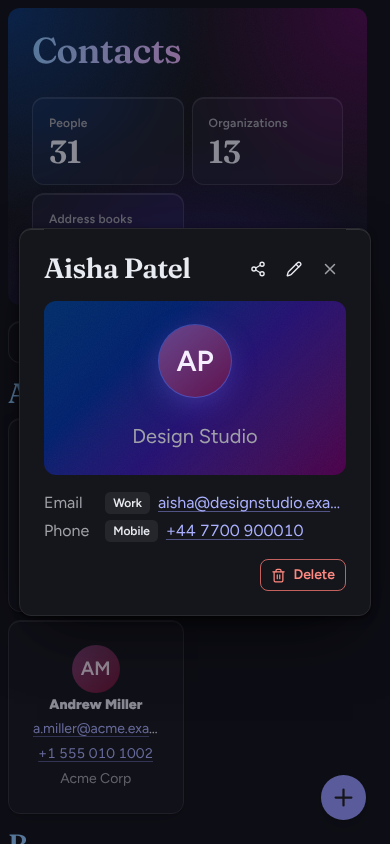
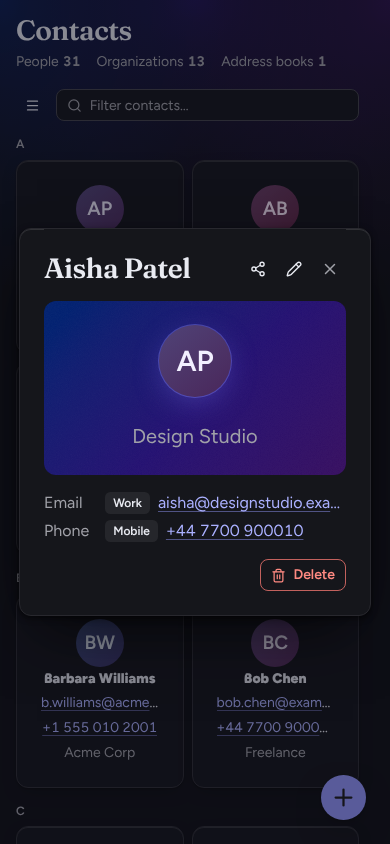
Contacts: a quiet top instead of a dashboard masthead
After a design review in rounds (the boxed mesh masthead with glass stat tiles looked pasted in, mostly in dark
mode): the colour is a wash at the top of the view (temper's new data-tm-surface="wash"), the title in the display
face is the page's one expressive moment, the counts are one small muted line, and the toolbar and letter headings
are plain temper again. The page's padding is md, which aligns the title with the list. caley follows temper's
branch to the commit with the wash and the calmer hues; the demo screenshots and write-up are updated.

Claude-Session: https://claude.ai/code/session_01AjKzdyfRDrLBAvMECsGmEy

diff --git a/frontend/contacts/index.html b/frontend/contacts/index.html
@@ -3,9 +3,9 @@
      draft: the form dialog's ContactDraft (src/lib/contacts.ts); hiddenBooks: addressbookKey()s filtered out.
      Shortcuts: c = new contact, e = edit the open contact (data-shortcut on those buttons).
      `contact-saved` {detail: the contact}: the form saved it, the detail dialog shows it.
-     The page wears temper's expressive.css: a mesh masthead with the counts in glass tiles, a glass toolbar that stays at the
-     top, the letters in the editorial display face, raised cards with seeded avatars (<person-avatar>), and a gradient
-     band in the detail dialog. -->
+     The page wears temper's expressive.css lightly: a wash of the brand colour at the top that scrolls away, the title in
+     the editorial display face, raised cards with seeded avatars (<person-avatar>), and a gradient band in the detail
+     dialog. Everything people work with (toolbar, letters, cards) stays plain temper. -->
 <app-layout data-sn-with="{ here: '/contacts/', title: 'Caley - Contacts' }"
             data-sn-state="{
               q: '',
@@ -30,7 +30,7 @@
     <sn-event name="contacts_refetch" resource="contacts" op="refresh"></sn-event>
     <sn-event name="contacts_refetch" resource="addressbooks" op="refresh"></sn-event>
   </sn-sync>
-  <main data-tm-gutter data-tm-pairing="editorial" data-sn-on-contact-saved="sel = $event.detail; openDialog('contact-detail')">
+  <main data-tm-gutter data-tm-pairing="editorial" data-tm-surface="wash" data-sn-on-contact-saved="sel = $event.detail; openDialog('contact-detail')">
     <div data-tm-density="compact"
          data-sn-let="{
            shown: filterContacts(contacts, addressbooks, hiddenBooks, q),
@@ -40,30 +40,31 @@
              fax: m.contacts_type_fax(), pager: m.contacts_type_pager(), other: m.contacts_type_other(),
            },
          }">
-      <div class="contacts-page" data-tm-layout="stack" data-tm-gap="md" data-tm-pad="sm">
-        <!-- The masthead: the page's name and its counts (the counts once the list has loaded). -->
-        <header data-tm-surface="mesh" data-tm-grain data-tm-layout="row" data-tm-justify="between" data-tm-align="end" data-tm-gap="lg" data-tm-pad="lg">
-          <h1 data-tm-display="xl" data-tm-ink="gradient" data-sn-text="m.nav_contacts()"></h1>
+      <div class="contacts-page" data-tm-layout="stack" data-tm-gap="md" data-tm-pad="md">
+        <!-- The masthead: the page's name, the page's one piece of display type, and its counts in one quiet line (once
+             the list has loaded). The colour behind it is <main>'s wash, which fades out above the list. The page's md padding
+             aligns it with the list and gives it room at the top. -->
+        <header data-tm-layout="stack" data-tm-gap="xs">
+          <h1 data-tm-display="lg" data-sn-text="m.nav_contacts()"></h1>
           <template data-sn-if="contacts.length > 0">
-            <dl data-tm-layout="grid" data-tm-bento data-tm-gap="sm" data-tm-grow style="--tm-min: 8rem; --tm-bento-row: 5.5rem; --tm-grow-basis: 18rem"
-                data-sn-attr="{ 'aria-label': m.contacts_stats() }">
-              <div data-tm-surface="glass" data-tm-layout="stack" data-tm-gap="xs" data-tm-pad="md">
-                <dt data-tm-caption data-sn-text="m.contacts_stat_people()"></dt>
-                <dd data-tm-figure data-sn-text="number(contacts.length)"></dd>
+            <dl data-tm-layout="row" data-tm-gap="md" data-tm-muted data-sn-attr="{ 'aria-label': m.contacts_stats() }">
+              <div data-tm-layout="row" data-tm-gap="xs" data-tm-wrap="none">
+                <dt><small data-sn-text="m.contacts_stat_people()"></small></dt>
+                <dd><small><strong data-sn-text="number(contacts.length)"></strong></small></dd>
               </div>
-              <div data-tm-surface="glass" data-tm-layout="stack" data-tm-gap="xs" data-tm-pad="md">
-                <dt data-tm-caption data-sn-text="m.contacts_stat_orgs()"></dt>
-                <dd data-tm-figure data-sn-text="number(organizationCount(contacts))"></dd>
+              <div data-tm-layout="row" data-tm-gap="xs" data-tm-wrap="none">
+                <dt><small data-sn-text="m.contacts_stat_orgs()"></small></dt>
+                <dd><small><strong data-sn-text="number(organizationCount(contacts))"></strong></small></dd>
               </div>
-              <div data-tm-surface="glass" data-tm-layout="stack" data-tm-gap="xs" data-tm-pad="md">
-                <dt data-tm-caption data-sn-text="m.contacts_stat_books()"></dt>
-                <dd data-tm-figure data-sn-text="number(addressbooks.length)"></dd>
+              <div data-tm-layout="row" data-tm-gap="xs" data-tm-wrap="none">
+                <dt><small data-sn-text="m.contacts_stat_books()"></small></dt>
+                <dd><small><strong data-sn-text="number(addressbooks.length)"></strong></small></dd>
               </div>
             </dl>
           </template>
         </header>
 
-        <div class="contacts-toolbar" data-tm-surface="glass" data-tm-sticky="top" data-tm-layout="row" data-tm-gap="sm" data-tm-pad="xs">
+        <div class="contacts-toolbar" data-tm-layout="row" data-tm-gap="sm">
           <nav-toggle></nav-toggle>
           <div data-tm-field data-tm-grow style="--tm-grow-basis: 12rem">
             <span data-tm-icon="search" aria-hidden="true"></span>
@@ -109,7 +110,7 @@
 
         <template data-sn-for="g in groupByLetter(shown)" data-sn-key="g.letter">
           <section data-tm-layout="stack" data-tm-gap="sm">
-            <h2 data-tm-display="lg" data-tm-ink="gradient" data-sn-text="g.letter"></h2>
+            <h2 data-tm-caption data-sn-text="g.letter"></h2>
             <div data-tm-layout="grid" data-tm-gap="sm" style="--tm-min: 10rem">
               <template data-sn-for="c in g.items" data-sn-key="contactKey(c)">
                 <article data-tm-elevation="raised" data-tm-layout="stack" data-tm-gap="xs" data-tm-align="center">

diff --git a/frontend/contacts/index.test.ts b/frontend/contacts/index.test.ts
@@ -86,7 +86,7 @@ test('lists the contacts by letter, with avatar, first email and phone, org', as
 test('the masthead counts people, organizations and address books', async () => {
   const { root } = await show();
   expect(root.querySelector('main h1')!.textContent).toBe('Contacts');
-  const stats = [...root.querySelectorAll('main header dl > div')].map((d) => [d.querySelector('dt')!.textContent, d.querySelector('dd[data-tm-figure]')!.textContent]);
+  const stats = [...root.querySelectorAll('main header dl > div')].map((d) => [d.querySelector('dt')!.textContent, d.querySelector('dd')!.textContent]);
   expect(stats).toEqual([['People', '3'], ['Organizations', '1'], ['Address books', '1']]);
 });
 

diff --git a/frontend/src/styles/contacts.scss b/frontend/src/styles/contacts.scss
@@ -1,7 +1,7 @@
 // Contacts page (contacts/index.html).
 
-// The bar while a list already shown reloads: over the toolbar's bottom edge, so nothing moves (the toolbar is
-// sticky, temper's data-tm-sticky, which positions it).
+// The bar while a list already shown reloads: over the toolbar's bottom edge, so nothing moves.
+.contacts-toolbar { position: relative; }
 .contacts-progress {
   position: absolute;
   inset-inline: 0;

diff --git a/docs/expressive-demo/README.md b/docs/expressive-demo/README.md
@@ -43,9 +43,11 @@ seeded gradient.
 | Phone, light | ![](screenshots/contacts-before-phone-light.png) | ![](screenshots/contacts-after-phone-light.png) |
 | Phone, dark | ![](screenshots/contacts-before-phone-dark.png) | ![](screenshots/contacts-after-phone-dark.png) |
 
-A mesh masthead with the page's title (it had no `h1` before) and the counts as stat tiles, a glass toolbar that
-stays at the top while the list scrolls under it, the letters in display type, raised cards that lift on hover, and
-`<person-avatar>`: two initials on the name's seeded gradient, so each person keeps a colour.
+The page's one expressive moment is its top: a wash of the brand colour behind the title (it had no `h1` before), in
+the display face, with the counts in one quiet line. Everything people work with (the search field, the letters,
+the cards) stays plain temper; the cards are raised and lift on hover, and `<person-avatar>` puts two initials on
+the name's seeded gradient, so each person keeps a colour. The page's padding is now 16px (was 8px), which aligns the
+title with the list and gives the cards more room.
 
 ### Contact detail
 
@@ -71,7 +73,7 @@ Twelve attributes in temper's `vocab.json` (module `expressive`), checked by `te
 
 | Attribute | Values | |
 |---|---|---|
-| `data-tm-surface` | glass, gradient, mesh | The background as a material. Panels (not body/main) get temper's large radius; on `<body>` it covers the canvas. |
+| `data-tm-surface` | glass, gradient, mesh, wash | The background as a material. Panels (not body/main) get temper's large radius; on `<body>` it covers the canvas. `wash` is the mesh at the top of a working view only. |
 | `data-tm-grain` | (boolean) | Film grain over any surface (an inline SVG: the CSP needs `img-src data:`, which caley's has). |
 | `data-tm-elevation` | raised, floating | Brand-tinted shadows; a raised card with a `data-tm-stretch` control lifts on hover. |
 | `data-tm-halo` | (boolean) | A soft accent glow. |
@@ -82,7 +84,7 @@ Twelve attributes in temper's `vocab.json` (module `expressive`), checked by `te
 | `data-tm-bento` | (boolean) | With `data-tm-layout="grid"`: row height (`--tm-bento-row`), dense flow, spans. |
 | `data-tm-span` | wide, tall, large, full | A bento tile's size (from a 32rem grid up). |
 | `data-tm-pairing` | editorial, grotesk | Fraunces or Bricolage Grotesque for display, self-hosted by the app through Fontsource. |
-| `data-tm-seed` | 0 … 11 | Twelve gradient fills (and inks) spread ±82.5° around the brand hue. |
+| `data-tm-seed` | 0 … 11 | Twelve gradient fills (and inks) spread ±50° around the brand hue. |
 
 Tokens to set: `--tm-font-display`, `--tm-display-weight`, `--tm-display-tracking`, `--tm-glass-blur`,
 `--tm-bento-row`. Read only: `--tm-tint-1…3`, `--tm-glass`, `--tm-ink-1…2`, `--tm-glow`, `--tm-shadow-raised`,
@@ -94,6 +96,22 @@ glass over each, in light and dark mode, at every 15° of hue for chroma 0.04–
 `prefers-contrast: more` and forced colours give plain surfaces and solid text, `prefers-reduced-transparency` opaque
 glass, `prefers-reduced-motion` no lift. No script; 1.9 KB brotli. The Fraunces face (36.6 kB) loads only on the two
 pages that import it, preloaded by sinter.
+
+## The design review of the contacts page
+
+The first version had a boxed mesh masthead with gradient-ink title and three glass stat tiles. It looked pasted in,
+especially in dark mode. A review against design fundamentals (one place for boldness; big-number tiles only when the
+numbers are the point; no purple-to-blue gradient defaults; cards by role) and a second reviewer looking only at the
+screenshots led, over five rounds, to:
+
+- the colour moved from a box to a `wash` at the top of the view (new in temper), with an eased falloff, 60% strength
+  in dark and no seam at the scrollbar;
+- the mesh's hues narrowed to the brand hue ±20° (it read as blue and magenta) and the light tints made paler (no cyan);
+- one display moment: the title at `lg`; the counts as one small line; toolbar and letters back to plain temper;
+- the avatar seeds narrowed to ±50° and calmer in dark (no red or maroon);
+- the title aligned with the list.
+
+Out of scope and unchanged: the floating add button can cover the last card on a phone, as before.
 
 ## What changed in caley
 
